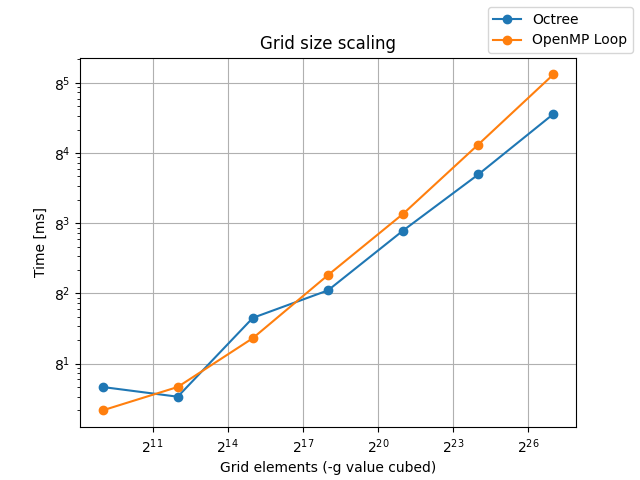
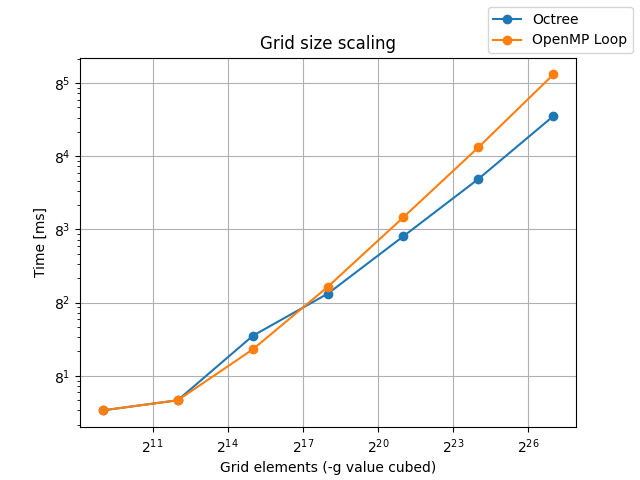
Add final AVS project 2

diff --git a/0ZS/AVS/Projekt 2/parallel_builder/tree_mesh_builder.cpp b/0ZS/AVS/Projekt 2/parallel_builder/tree_mesh_builder.cpp
@@ -110,16 +110,25 @@ inline void TreeMeshBuilder::doBlock(unsigned *totalTriangles, const unsigned ed
 unsigned TreeMeshBuilder::octreeTraverse(unsigned currentEdgeLen,
                                          const Vec3_t<float> &block, const ParametricScalarField &field) {
     if (currentEdgeLen <= EDGE_LEN_CUTOFF) {
-        // "Serial" execution after cutoff
         unsigned totalTriangles = 0;
 
-        for (unsigned x = 0u; x < currentEdgeLen; x++) {
-            for (unsigned y = 0u; y < currentEdgeLen; y++) {
-                for (unsigned z = 0u; z < currentEdgeLen; z++) {
-                    const Vec3_t<float> cubeOffset(block.x * currentEdgeLen + x,
-                                                   block.y * currentEdgeLen + y,
-                                                   block.z * currentEdgeLen + z);
-                    totalTriangles += buildCube(cubeOffset, field);
+        // I suppose the compiler might optimize the cycle out on its own
+        // but I'm not in the mood to test it, so I'm keeping this here (as
+        // a hint to the sacred compiler)
+        if (EDGE_LEN_CUTOFF == 1) {
+            totalTriangles = buildCube(block, field);
+        } else {
+            // "Serial" execution after cutoff
+            // This could also be made into tasks but I think the overhead would actually
+            // decrease performance
+            for (unsigned x = 0u; x < currentEdgeLen; x++) {
+                for (unsigned y = 0u; y < currentEdgeLen; y++) {
+                    for (unsigned z = 0u; z < currentEdgeLen; z++) {
+                        const Vec3_t<float> cubeOffset(block.x + x,
+                                                       block.y + y,
+                                                       block.z + z);
+                        totalTriangles += buildCube(cubeOffset, field);
+                    }
                 }
             }
         }
@@ -134,9 +143,8 @@ unsigned TreeMeshBuilder::octreeTraverse(unsigned currentEdgeLen,
     const unsigned divisionEdgeLen = currentEdgeLen >> 1;
     unsigned totalTriangles = 0;
 
-    // TODO: test if doing this has any performance advantage compared to iterating
-    // through sc_vertexNormPos. I think (and hope) it doesn't but one never knows
-    // when it comes to memory accesses.
+    // This isn't very nice but it seems to work SLIGHTLY faster compared to iterating
+    // through sc_vertexNormPos.
     doBlock(&totalTriangles, divisionEdgeLen, block, field, 0, 0, 0);
     doBlock(&totalTriangles, divisionEdgeLen, block, field, 0, 0, 1);
     doBlock(&totalTriangles, divisionEdgeLen, block, field, 0, 1, 0);

diff --git a/0ZS/AVS/Projekt 2/parallel_builder/loop_mesh_builder.cpp b/0ZS/AVS/Projekt 2/parallel_builder/loop_mesh_builder.cpp
@@ -39,7 +39,7 @@ unsigned LoopMeshBuilder::marchCubes(const ParametricScalarField &field) {
                                                             allocator);
 
         // Loop over each coordinate in the 3D grid.
-#pragma omp for reduction(+:totalTriangles) collapse(3) schedule(nonmonotonic:dynamic,32)//nonmonotonic:dynamic,32)
+#pragma omp for reduction(+:totalTriangles) collapse(3) schedule(nonmonotonic:dynamic,32)
         for (size_t x = 0u; x < gridSize; x++) {
             for (size_t y = 0u; y < gridSize; y++) {
                 for (size_t z = 0u; z < gridSize; z++) {
